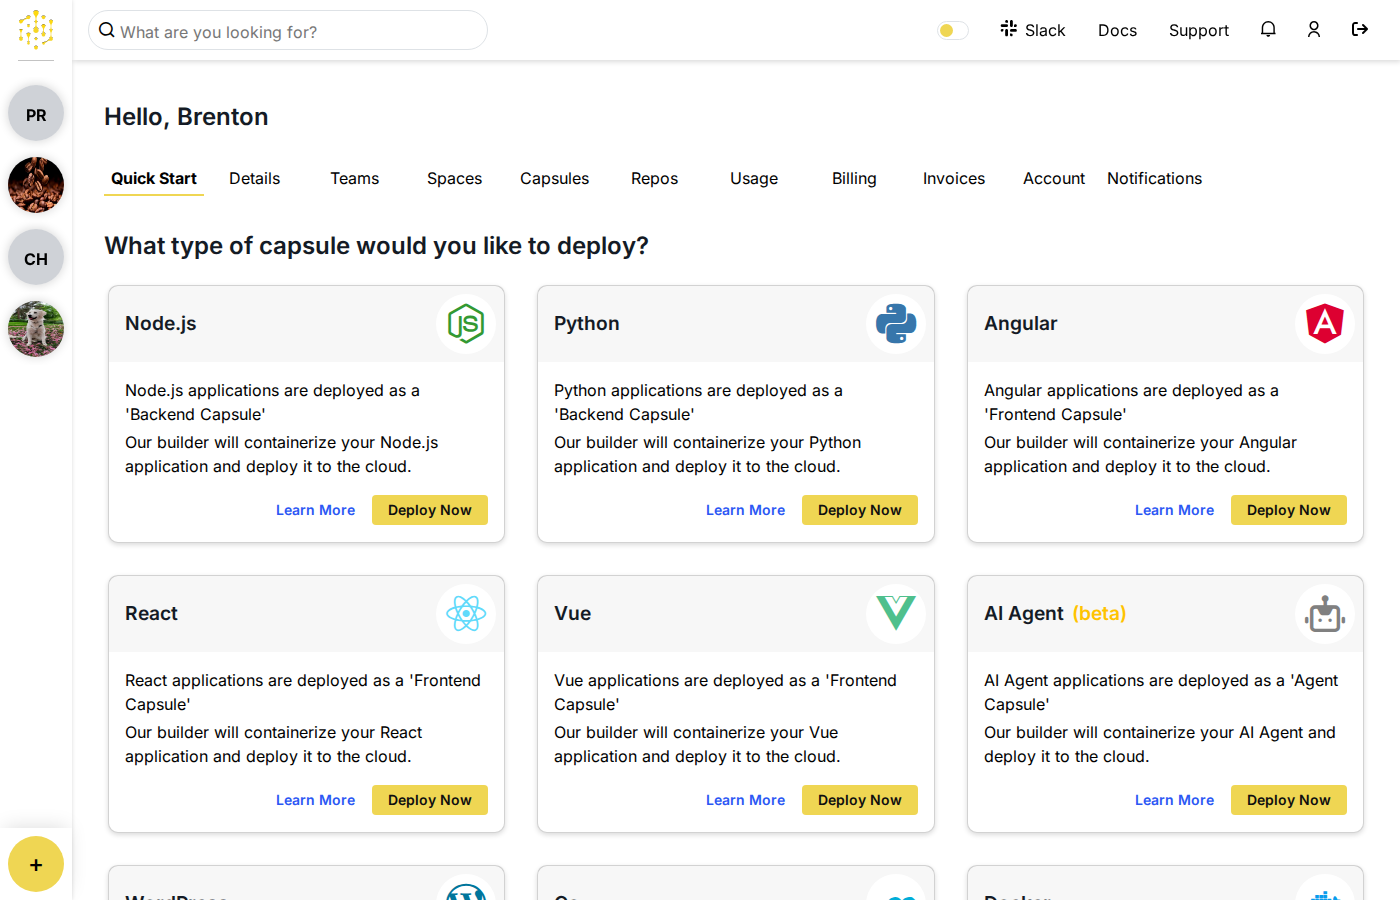
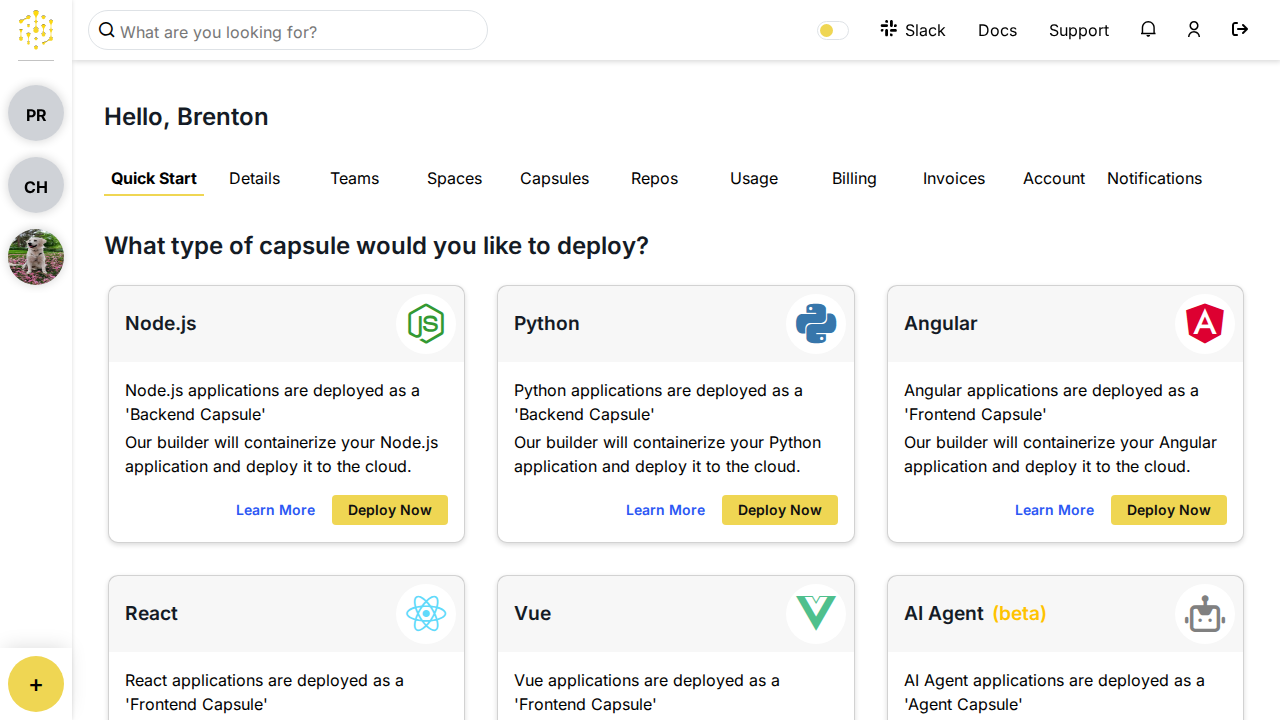
docs: align Angular guide with test-platform capsule wizard
Replace stale GitBook steps with numbered test-platform instructions
through Deploy → Builds, refresh screenshots, and record the 2026-11-20
audit including the Git Repository blocker on the test account.

diff --git a/docs/guides/create-angular-frontend-capsule.md b/docs/guides/create-angular-frontend-capsule.md
@@ -1,79 +1,61 @@
 ---
 slug: "/frontend/angular"
 description: >-
-  Deploy an Angular application on Code Capsules with auto-deployments from a
-  specified branch on your GitHub repository.
+  Create an Angular Frontend Capsule on the Code Capsules test platform and confirm
+  the first build appears under Deploy → Builds.
 title: "How to Host an Angular Application"
 sidebar_label: "Angular"
 ---
 
-# Host Your Angular Application in Minutes
+# Create Angular frontend capsule
 
-Deploy an Angular application and learn how to host frontend code on Code Capsules. At the end of the guide, you would have deployed the application in the screenshot below and can adapt it to meet your unique needs.
+**Goal:** After you finish the wizard, you should see the capsule **building** on the capsule **Deploy** tab under **Builds** (status such as **Building**, **Queued**, or **In progress**).
 
-![Deployed App](/gitbook-assets/get-started/cc-angular-app.png)
+Steps below match visible labels on [test-platform.codecapsules.io](https://test-platform.codecapsules.io) as verified on **2026-11-20**. For production signup and marketing copy, use [codecapsules.io](https://www.codecapsules.io/); this guide targets the test platform used for documentation audits.
 
-## Setup
+## Prerequisites
 
-Code Capsules connects to GitHub repositories to deploy applications. To follow this guide, you’ll need a [Code Capsules](https://www.codecapsules.io/) account and a [GitHub](https://github.com/) account.
+- A Code Capsules account on the test platform
+- A Git repository with an Angular app (example: `npm run build`, static output under `dist/.../browser`)
+- GitHub connected to your team (**Configure Git for Code Capsules** if the repository list is empty)
 
-To demonstrate how to deploy an Angular application with Code Capsules, we’ve provided an example application, which you can find on the [Code Capsules GitHub repository](https://github.com/BrentonJScott/demo-angular-22).
+## Steps
 
-Sign in to GitHub, and fork the example application by clicking **Fork** at the top-right of your screen and selecting your GitHub account as the destination.
+1. Open [https://test-platform.codecapsules.io](https://test-platform.codecapsules.io). If you land on **Create your account**, use the **Log in** link under “Already have an account?”.
+2. On **Welcome back**, enter your email in the **Email** textbox and your password in the **Password** textbox.
+3. Click **Log in**.
+4. Open **Quick Start** in the sidebar. Confirm the heading **What type of capsule would you like to deploy?**
+5. In the **Angular** row, click **Deploy Now**. You should reach **New Capsule** at `/new/capsule?capsuleType=frontend` with breadcrumbs **Plan** / **Configure** / **Deploy**.
+6. On **Capsule Details**:
+   - Under **Choose a Capsule**, ensure **Frontend** is selected (Angular quick start should preselect frontend; if the screen shows **Backend** instead, open **Search/Select a Capsule Type** and choose **Frontend**).
+   - Under **Choose a Team**, open **Search/Select a team** and pick your team (for example **Personal Team**).
+   - Under **Choose a Space**, open **Search/Select a space** and pick a space.
+   - Click **Next** when validation no longer asks you to select a capsule, team, and space.
+7. On **Hosting**, select **Static** and click **Next**.
+8. On **Plan**, select **Free** (or a paid plan) and click **Next**.
+9. On **Connect a Git Repository**, choose a repository from **Git Repository**. If the list is empty, use **Configure Git for Code Capsules**, connect GitHub, then return and reload this step. Click **Next**.
+10. On **Build & Deploy**, set:
+    - **Build Command:** `npm run build`
+    - **Path to static content:** your Angular output folder (for example `dist/cc-demo-angular/browser`)
+    - Optionally adjust **Capsule Name**.
+11. Click **Create Capsule**.
+12. Open the **Deploy** tab. Under **Builds**, confirm the latest build shows a building state (**Building**, **Queued**, or **In progress**). The **Details** tab may also show **Building** under capsule status while the build runs.
 
-## Create an Account with Code Capsules
+![Registration / log in entry](/img/guides/shared/step-0-open-site.png)
 
-If you don’t already have an account, navigate to the [Code Capsules](https://www.codecapsules.io/) site and click the **Sign Up** button in the top right corner of the screen. Enter your details to create an account, or log in to an existing one.
+![Welcome back login form](/img/guides/shared/step-1-login-page.png)
 
-If you’ve just signed up for an account, you’ll be directed to a welcome page on your first login. Click on the **Go To Personal Team** button.
+![Quick Start capsule chooser](/img/guides/shared/step-2-quick-start.png)
 
-Alternatively, if you’re signing in again, click on the **Spaces** tab.
+![New Capsule — Capsule Details](/img/guides/create-angular-frontend-capsule/step-5-new-capsule-wizard.png)
 
-For a better understanding of Teams, Spaces, and Capsules, take a look at [our explanation](/platform/platform/).
+![Hosting — Static](/img/guides/create-angular-frontend-capsule/step-6-hosting-static.png)
 
-## Create a Space for Your App
+![Plan selection](/img/guides/create-angular-frontend-capsule/step-7-plan-free.png)
 
-Log in to your Code Capsules account and navigate to the **Spaces** tab. Once there, click the yellow `+` icon on the bottom left of the screen to add a new Space.
+![Connect a Git Repository](/img/guides/create-angular-frontend-capsule/step-8-git-repository.png)
 
-Follow the prompts, choosing your region and giving your Space a name, then click **Create Space**.
+## Troubleshooting
 
-![Create a New Space](/gitbook-assets/get-started/space-name-1.png)
-
-
-1. Choose a Team — you can use a default “personal” Team if you’re the only person working on this project, or a named Team if you’re collaborating with others
-2. This should remind you of the project, for example, “customer-api” or “notetaking-app”
-3. Choose a country close to where most of your users will be
-
-## Create the Capsule
-
-A [Capsule](/platform/capsules/what-is-a-capsule/) provides the server for hosting an application on Code Capsules.
-
-Navigate to the Space you just created, then click the yellow `+` icon on the bottom left of the screen and click **New Capsule**. You can also click **Deploy Now** on the **Angular** card on the **Quick Start** page, which preselects the Frontend Capsule type. Follow the steps below to create a Frontend Capsule:
-
-1. Under **Choose a Capsule**, select **Frontend**. Select your **Team** and your **Space**, then click **Next**.
-2. On **Hosting**, select **Static** and click **Next**. Static serves the files your build produces and is the right choice for an Angular app that doesn't need server-side rendering.
-3. On **Plan**, select **Free** or **Paid** and click **Next**. The **Free** plan costs $0, allows 30MB per build and 50GB of traffic a month, and is enough for this guide. See [Static Frontend Free and Paid Plans](/products/frontend-capsule/static/plans/) for the details.
-4. On **Connect a Git Repository**, select the repository you forked from the **Git Repository** list. Type `angular` to search. If the repository isn't listed, click **Configure Git for Code Capsules** and give Code Capsules access to it. If you forked the repository after opening this page, reload the page so it appears.
-5. The **Branch** is filled in with your repository's default branch, `main`. Leave **Repo subpath** empty and click **Next**. Code Capsules shows "Repo will be automatically shared with your team", so everyone on the Team can use that repo for their own capsules.
-6. On **Build & Deploy**, enter:
-   - **Build Command**: `npm run build`
-   - **Path to static content**: `dist/cc-demo-angular/browser`
-
-   Leave **Capsule Name** as it is, or change it. You can rename the capsule later from the **Details** tab.
-7. Click **Create Capsule**.
-
-Code Capsules automatically builds your application when you've finished creating the Capsule. The **Details** tab opens and shows **Building** under **Capsule Status**.
-
-To follow the build, click the **Deploy** tab. The **Builds** section lists the latest build with its status, for example **Succeeded** and how long it took. Click **View Logs** to open the build log on the **Builds** tab. This build takes under a minute.
-
-![Build Logs](/gitbook-assets/get-started/angular-build-logs.png)
-
-Once the build shows **Succeeded**, go to the **Details** tab and click the link under **Public URL**, and you should see your deployed application.
-
-![Deployed App](/gitbook-assets/get-started/cc-angular-app.png)
-
-If you’d like to deploy another application in a different language or framework, take a look at our other [deployment guides](/frontend/).
-
-:::tip[Video Guides]
-If you prefer watching videos to reading text, check out our [Video Guides](/tutorials/video-guides/).
-:::
+- **Please select a Capsule, Team and Space:** Fill all three dropdowns on **Capsule Details** before **Next**.
+- **No repositories in Git Repository:** Connect GitHub via **Configure Git for Code Capsules**; without a repository you cannot reach **Create Capsule** or a build on **Deploy → Builds**.

diff --git a/reports/2026-11-20-cron-platform-audit.md b/reports/2026-11-20-cron-platform-audit.md
@@ -1,0 +1,42 @@
+# Platform documentation audit (2026-11-20)
+
+**Platform:** https://test-platform.codecapsules.io  
+**Feature source:** `cc-site/DOCUMENTED_FEATURES.MD` (after pull: single feature — Create Angular frontend capsule)
+
+## Inventory
+
+| DOCUMENTED_FEATURES | Guide file | Action |
+|---|---|---|
+| Create Angular frontend capsule (GOAL: building on Deploy → Builds) | `docs/guides/create-angular-frontend-capsule.md` | Replace stale GitBook steps with test-platform flow |
+| *(removed from list)* | `create-react-frontend-capsule.md`, `create-java-backend-capsule.md` | Already removed on `main` — no extra doc deletion |
+
+## Acceptance test: Create Angular frontend capsule
+
+| Step | Doc expectation | Result | Notes |
+|---|---|---|---|
+| 1–3 | Test-platform login (**Create your account** / **Log in**, **Welcome back**) | pass | Matches live labels |
+| 4–5 | **Quick Start** → **Angular** **Deploy Now** | pass | Opens `/new/capsule?capsuleType=frontend` |
+| 6 | **Capsule Details** — Frontend, team, space | pass (with drift) | Sometimes shows **Backend** until **Frontend** is chosen in **Search/Select a Capsule Type** |
+| 7–8 | **Hosting** **Static**, **Plan** **Free** | pass | Screenshots updated |
+| 9 | **Git Repository** selection | **blocked** | Dropdown showed **No items found** for audit credentials; cannot click **Create Capsule** |
+| 10–12 | **Build & Deploy**, **Create Capsule**, **Deploy** → **Builds** **Building** | **not verified** | Blocked by step 9 |
+
+**functional:** fail (goal not reached — no build started)  
+**doc_fidelity (main before PR):** fail (GitBook/marketing steps; no test-platform path to **Deploy → Builds**)
+
+## Doc drift vs previous `main` guide
+
+| Doc claim (main) | Screen (test-platform) |
+|---|---|
+| **Sign Up** on www.codecapsules.io | **Create your account** + **Log in** on test-platform |
+| Yellow `+` / **Spaces** tab flow | **Quick Start** → **Angular** **Deploy Now** |
+| Long GitBook fork/setup narrative | Wizard: **Capsule Details** → **Hosting** → **Plan** → **Git** → **Build & Deploy** |
+
+## Issues flagged (product / environment — not fixed in code)
+
+1. **Git Repository empty:** Audit account could not list repositories; goal “building in builds tab” could not be exercised end-to-end.
+2. **Choose a Capsule default:** Quick Start Angular path occasionally displayed **Backend** copy until **Frontend** was reselected.
+
+## PR
+
+Branch `docs/cron-platform-audit-2026-11-20`: rewritten Angular guide, refreshed screenshots through Git step, this report.
